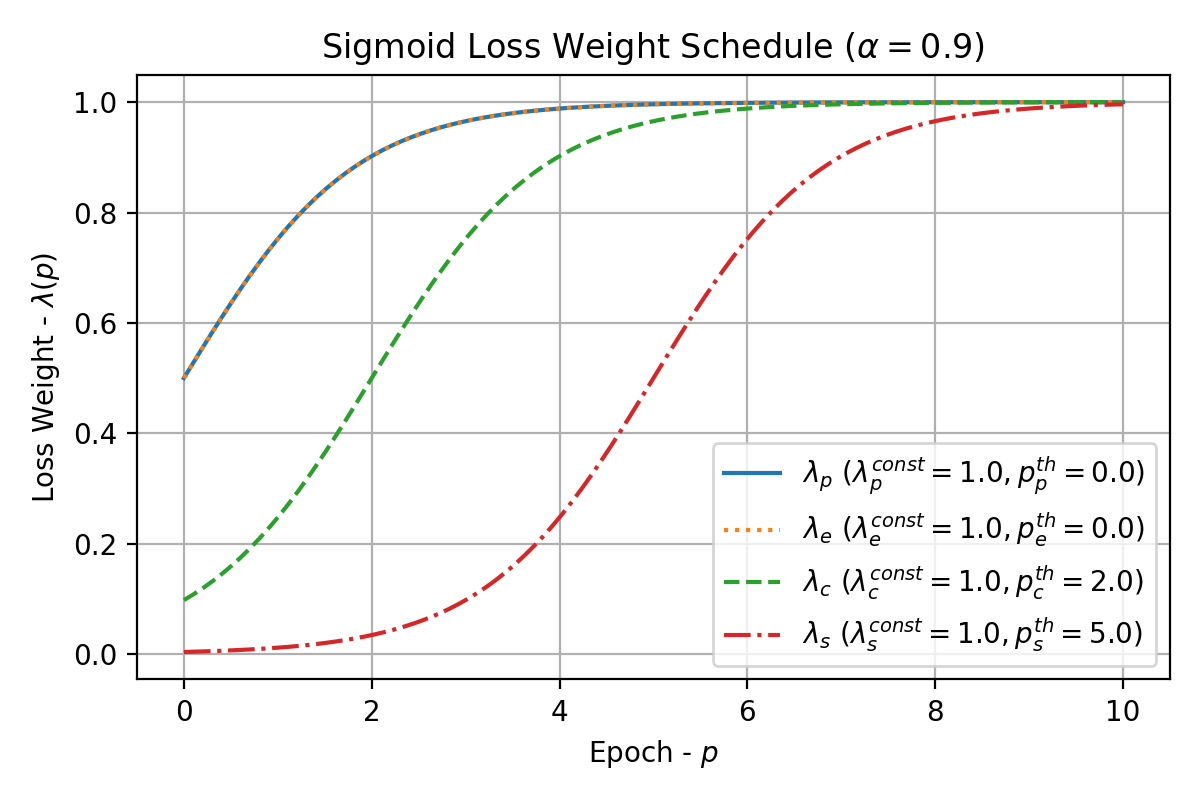
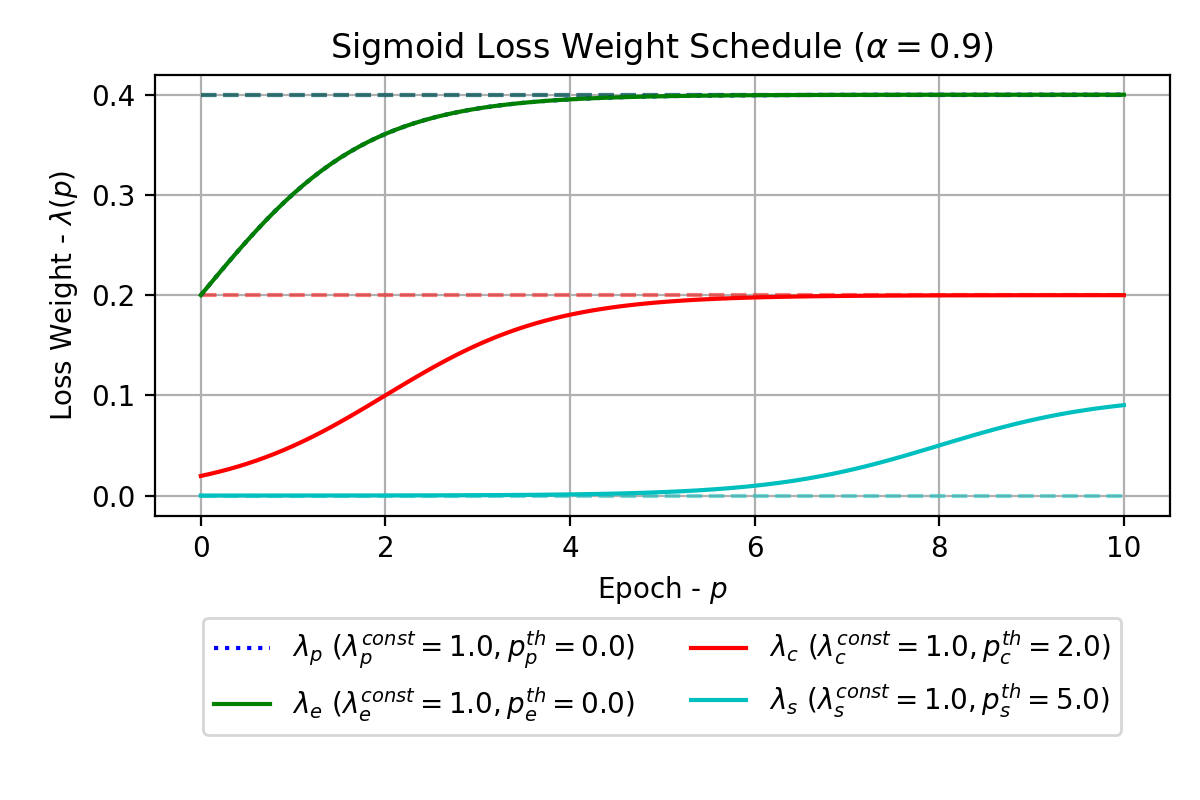
list to array speedup all_input_mask

diff --git a/generate_sigmoid_curve_plot.py b/generate_sigmoid_curve_plot.py
@@ -5,30 +5,34 @@ import matplotlib.pyplot as plt
 def main():
     # Set training parameters
     epochs = 10
-    lam_const = np.array([1.0, 1.0, 1.0, 1.0])
-    p_th = np.array([0.0, 0.0, 2.0, 5.0])
+    lam_const = np.array([0.4, 0.4, 0.2, 0.1])
+    p_th = np.array([0.0, 0.0, 2.0, 8.0])
     alpha = 0.9
-   
+
+    # Enter baseline weights (precondition, effects, conflict, story)
+    lam_base = np.array([0.4, 0.4, 0.2, 0.0])
+
     # Calculate lambda weight schedule (continuous)
     lam = np.zeros((4, 100))
     p = np.linspace(0, epochs, 100)
     for idx, (l, p_thi) in enumerate(zip(lam_const, p_th)):    
         lam[idx, :] = l * sigmoid((p - p_thi) / alpha)
-    
-    # Plot lambda schedule
+
+    # Plot baseline lambda weights
     fig, ax = plt.subplots(figsize=(6, 4), tight_layout=True)
+    ax.hlines(lam_base[0], 0, epochs, linestyle='dashed', colors='b', alpha=0.5)
+    ax.hlines(lam_base[1], 0, epochs, linestyle='dashed', colors='g', alpha=0.5)
+    ax.hlines(lam_base[2], 0, epochs, linestyle='dashed', colors='r', alpha=0.5)
+    ax.hlines(lam_base[3], 0, epochs, linestyle='dashed', colors='c', alpha=0.5)
     
     # Plot weights (continuous)
-    ax.plot(p, lam[0, :], linestyle='solid', label=r'$\lambda_p\ (\lambda_p^{const}=1.0, p_p^{th}=0.0)$')
-    ax.plot(p, lam[1, :], linestyle='dotted', label=r'$\lambda_e\ (\lambda_e^{const}=1.0, p_e^{th}=0.0)$')
-    ax.plot(p, lam[2, :], linestyle='dashed', label=r'$\lambda_c\ (\lambda_c^{const}=1.0, p_c^{th}=2.0)$')
-    ax.plot(p, lam[3, :], linestyle='dashdot', label=r'$\lambda_s\ (\lambda_s^{const}=1.0, p_s^{th}=5.0)$')
-    
-    # Plot weights (discrete)
-    # ax.scatter(p_i, lam_i)
-    
+    ax.plot(p, lam[0, :], linestyle='dotted', color='b', label=r'$\lambda_p\ (\lambda_p^{const}=1.0, p_p^{th}=0.0)$')
+    ax.plot(p, lam[1, :], linestyle='solid', color='g', label=r'$\lambda_e\ (\lambda_e^{const}=1.0, p_e^{th}=0.0)$')
+    ax.plot(p, lam[2, :], linestyle='solid', color='r', label=r'$\lambda_c\ (\lambda_c^{const}=1.0, p_c^{th}=2.0)$')
+    ax.plot(p, lam[3, :], linestyle='solid', color='c', label=r'$\lambda_s\ (\lambda_s^{const}=1.0, p_s^{th}=5.0)$')
+
     # Figure annotations
-    ax.legend()
+    ax.legend(bbox_to_anchor=(0.5, -0.2), loc='upper center', ncol=2)
     ax.set_xlabel(r'Epoch - $p$')
     ax.set_ylabel(r'Loss Weight - $\lambda(p)$')
     ax.set_title(r'Sigmoid Loss Weight Schedule ($\alpha=0.9$)')

diff --git a/www/dataset/featurize.py b/www/dataset/featurize.py
@@ -52,7 +52,7 @@ def get_tensor_dataset_tiered(dataset, max_sentences, add_segment_ids=False):
   all_input_ids = torch.tensor(np.array([[[[story['entities'][e]['input_ids'][s] if e < len(story['entities']) else np.zeros((seq_length)) for s in range(max_sentences)] for e in range(max_entities)] for story in ex_2s['stories']] for ex_2s in dataset]))
   all_lengths = torch.tensor([[[len(story['sentences']) for e in range(max_entities)] for story in ex_2s['stories']] for ex_2s in dataset], dtype=torch.int64)
   num_entities = torch.tensor([[len(story['entities']) for story in ex_2s['stories']] for ex_2s in dataset], dtype=torch.int64)
-  all_input_mask = torch.tensor([[[[story['entities'][e]['input_mask'][s] if e < len(story['entities']) else np.zeros((seq_length)) for s in range(max_sentences)] for e in range(max_entities)] for story in ex_2s['stories']] for ex_2s in dataset])
+  all_input_mask = torch.tensor(np.array([[[[story['entities'][e]['input_mask'][s] if e < len(story['entities']) else np.zeros((seq_length)) for s in range(max_sentences)] for e in range(max_entities)] for story in ex_2s['stories']] for ex_2s in dataset]))
   all_attributes = torch.tensor([[[[story['entities'][e]['attributes'][s] if e < len(story['entities']) and s < len(story['entities'][0]) else np.zeros((num_attributes)) for s in range(max_sentences)] for e in range(max_entities)] for story in ex_2s['stories']] for ex_2s in dataset], dtype=torch.long)
   all_preconditions = torch.tensor([[[[story['entities'][e]['preconditions'][s] if e < len(story['entities']) and s < len(story['entities'][0]) else np.zeros((num_attributes)) for s in range(max_sentences)] for e in range(max_entities)] for story in ex_2s['stories']] for ex_2s in dataset], dtype=torch.long)
   all_effects = torch.tensor([[[[story['entities'][e]['effects'][s] if e < len(story['entities']) and s < len(story['entities'][0]) else np.zeros((num_attributes)) for s in range(max_sentences)] for e in range(max_entities)] for story in ex_2s['stories']] for ex_2s in dataset], dtype=torch.long)
